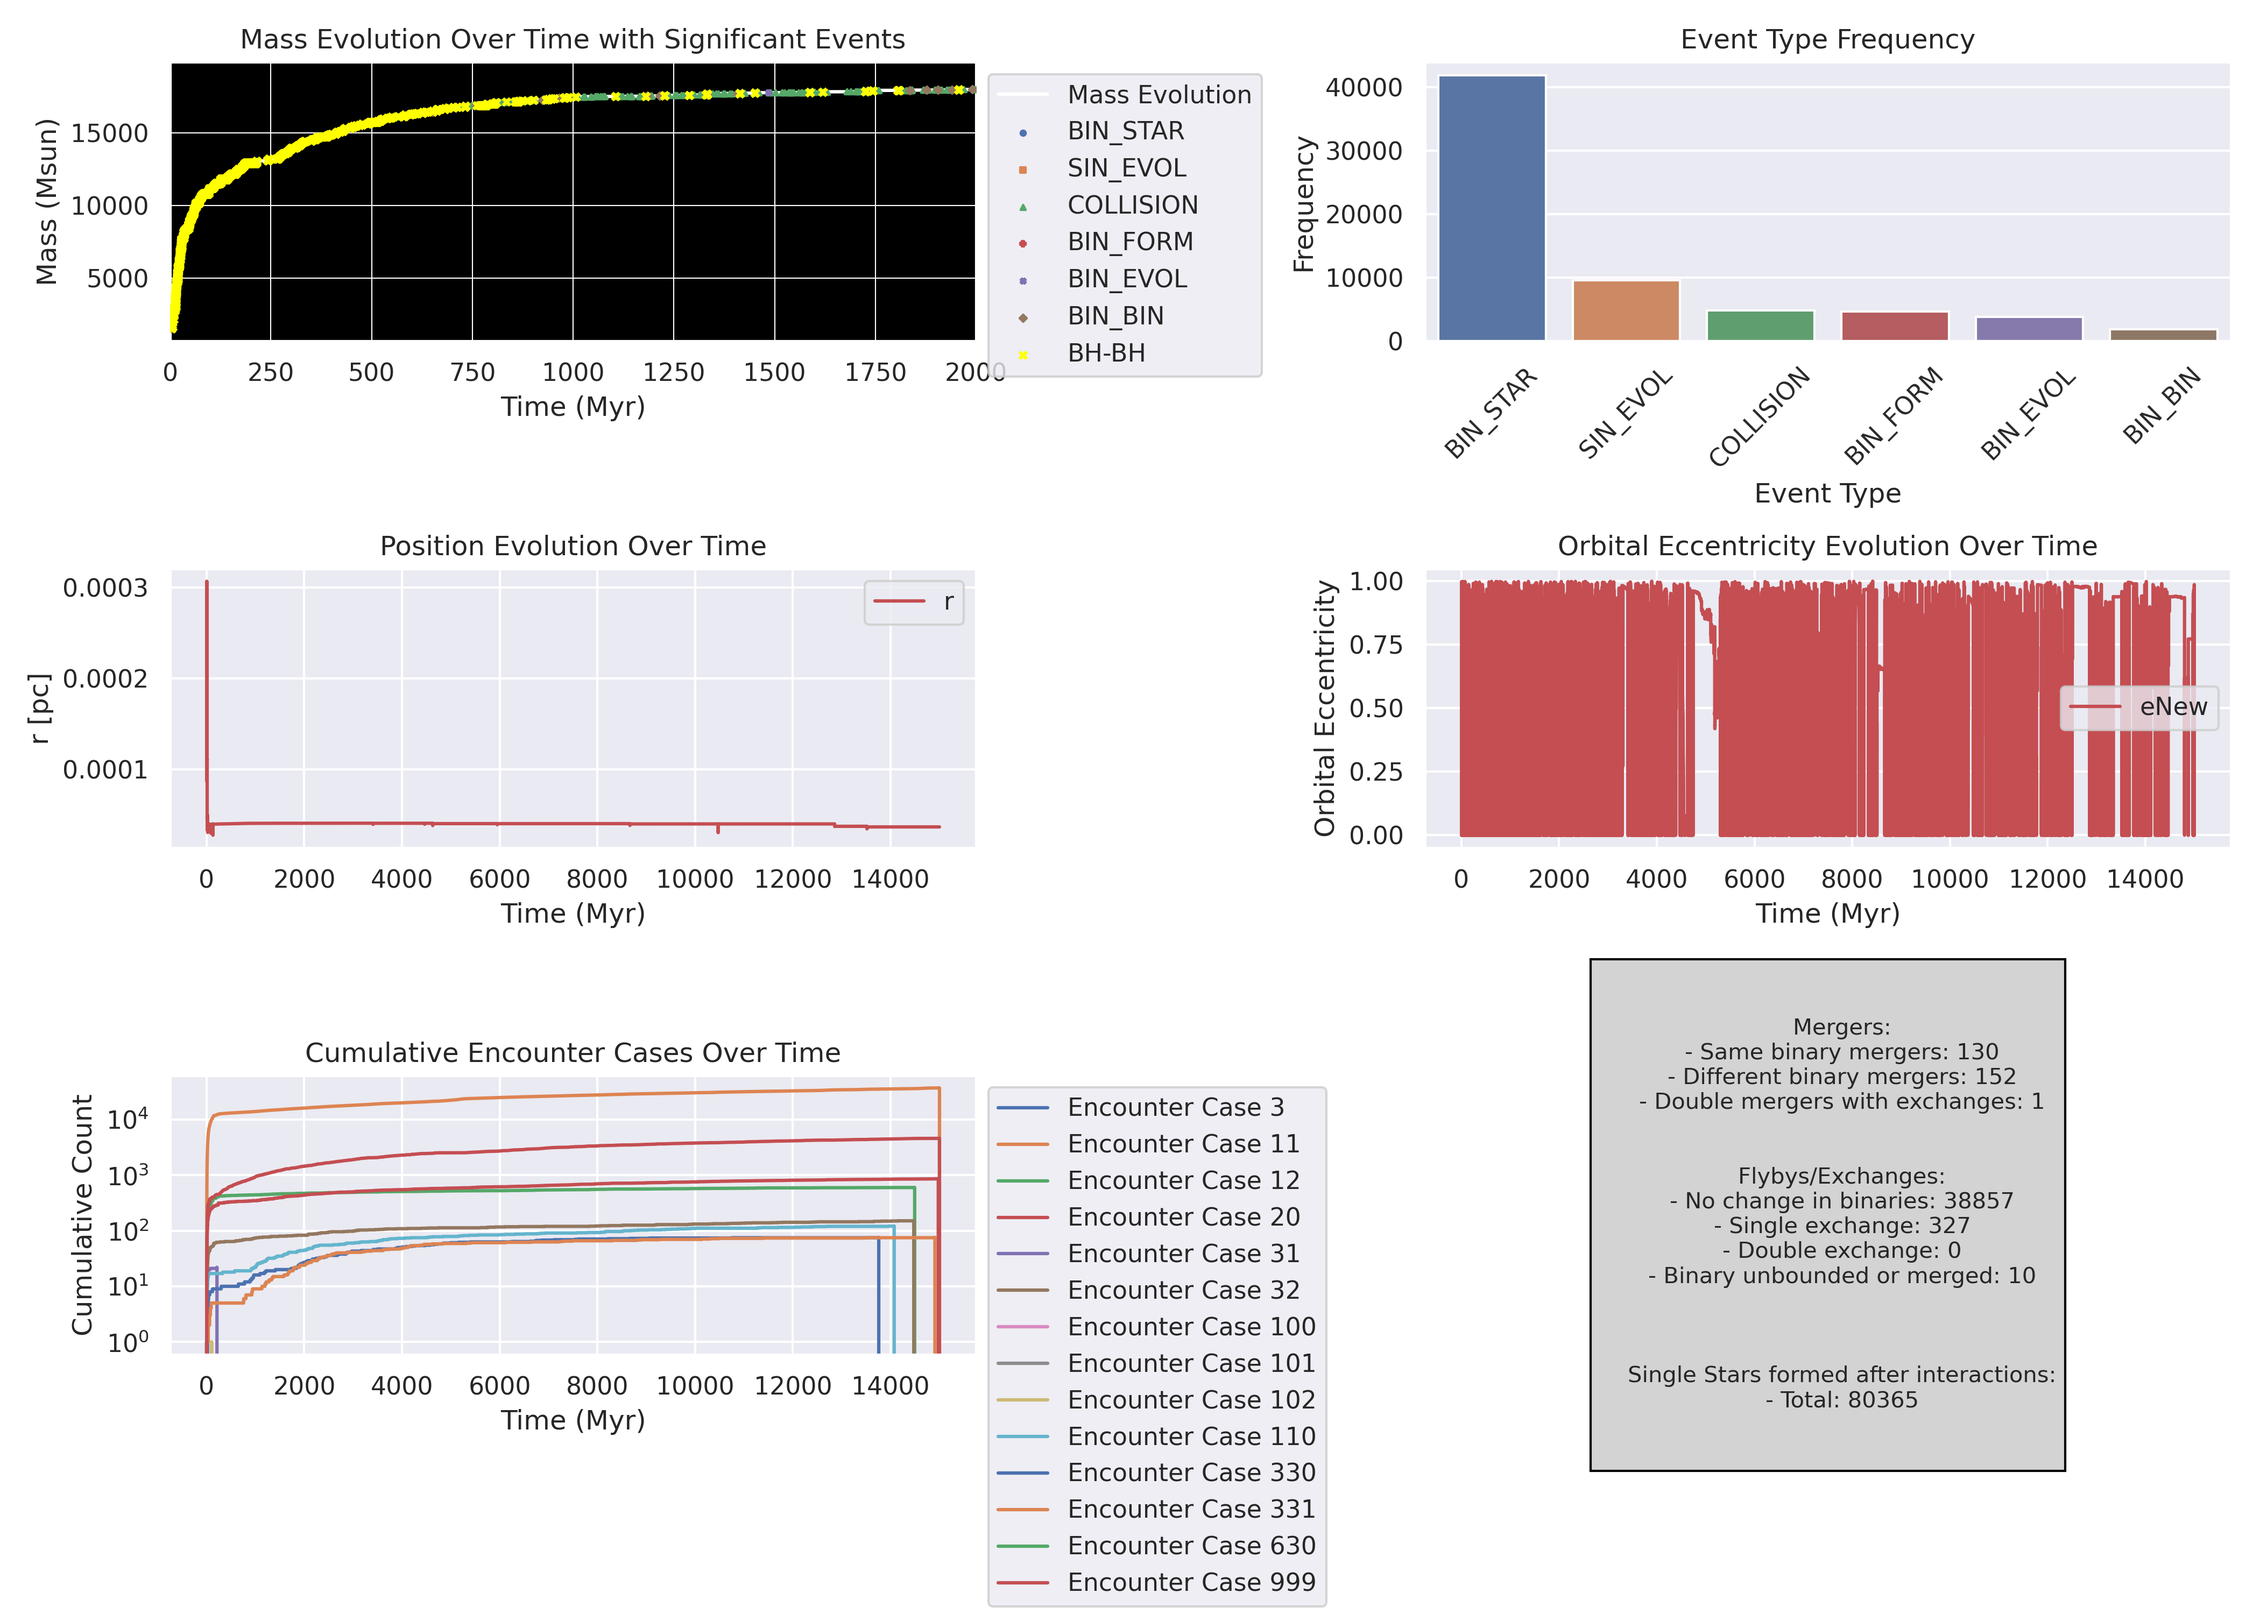
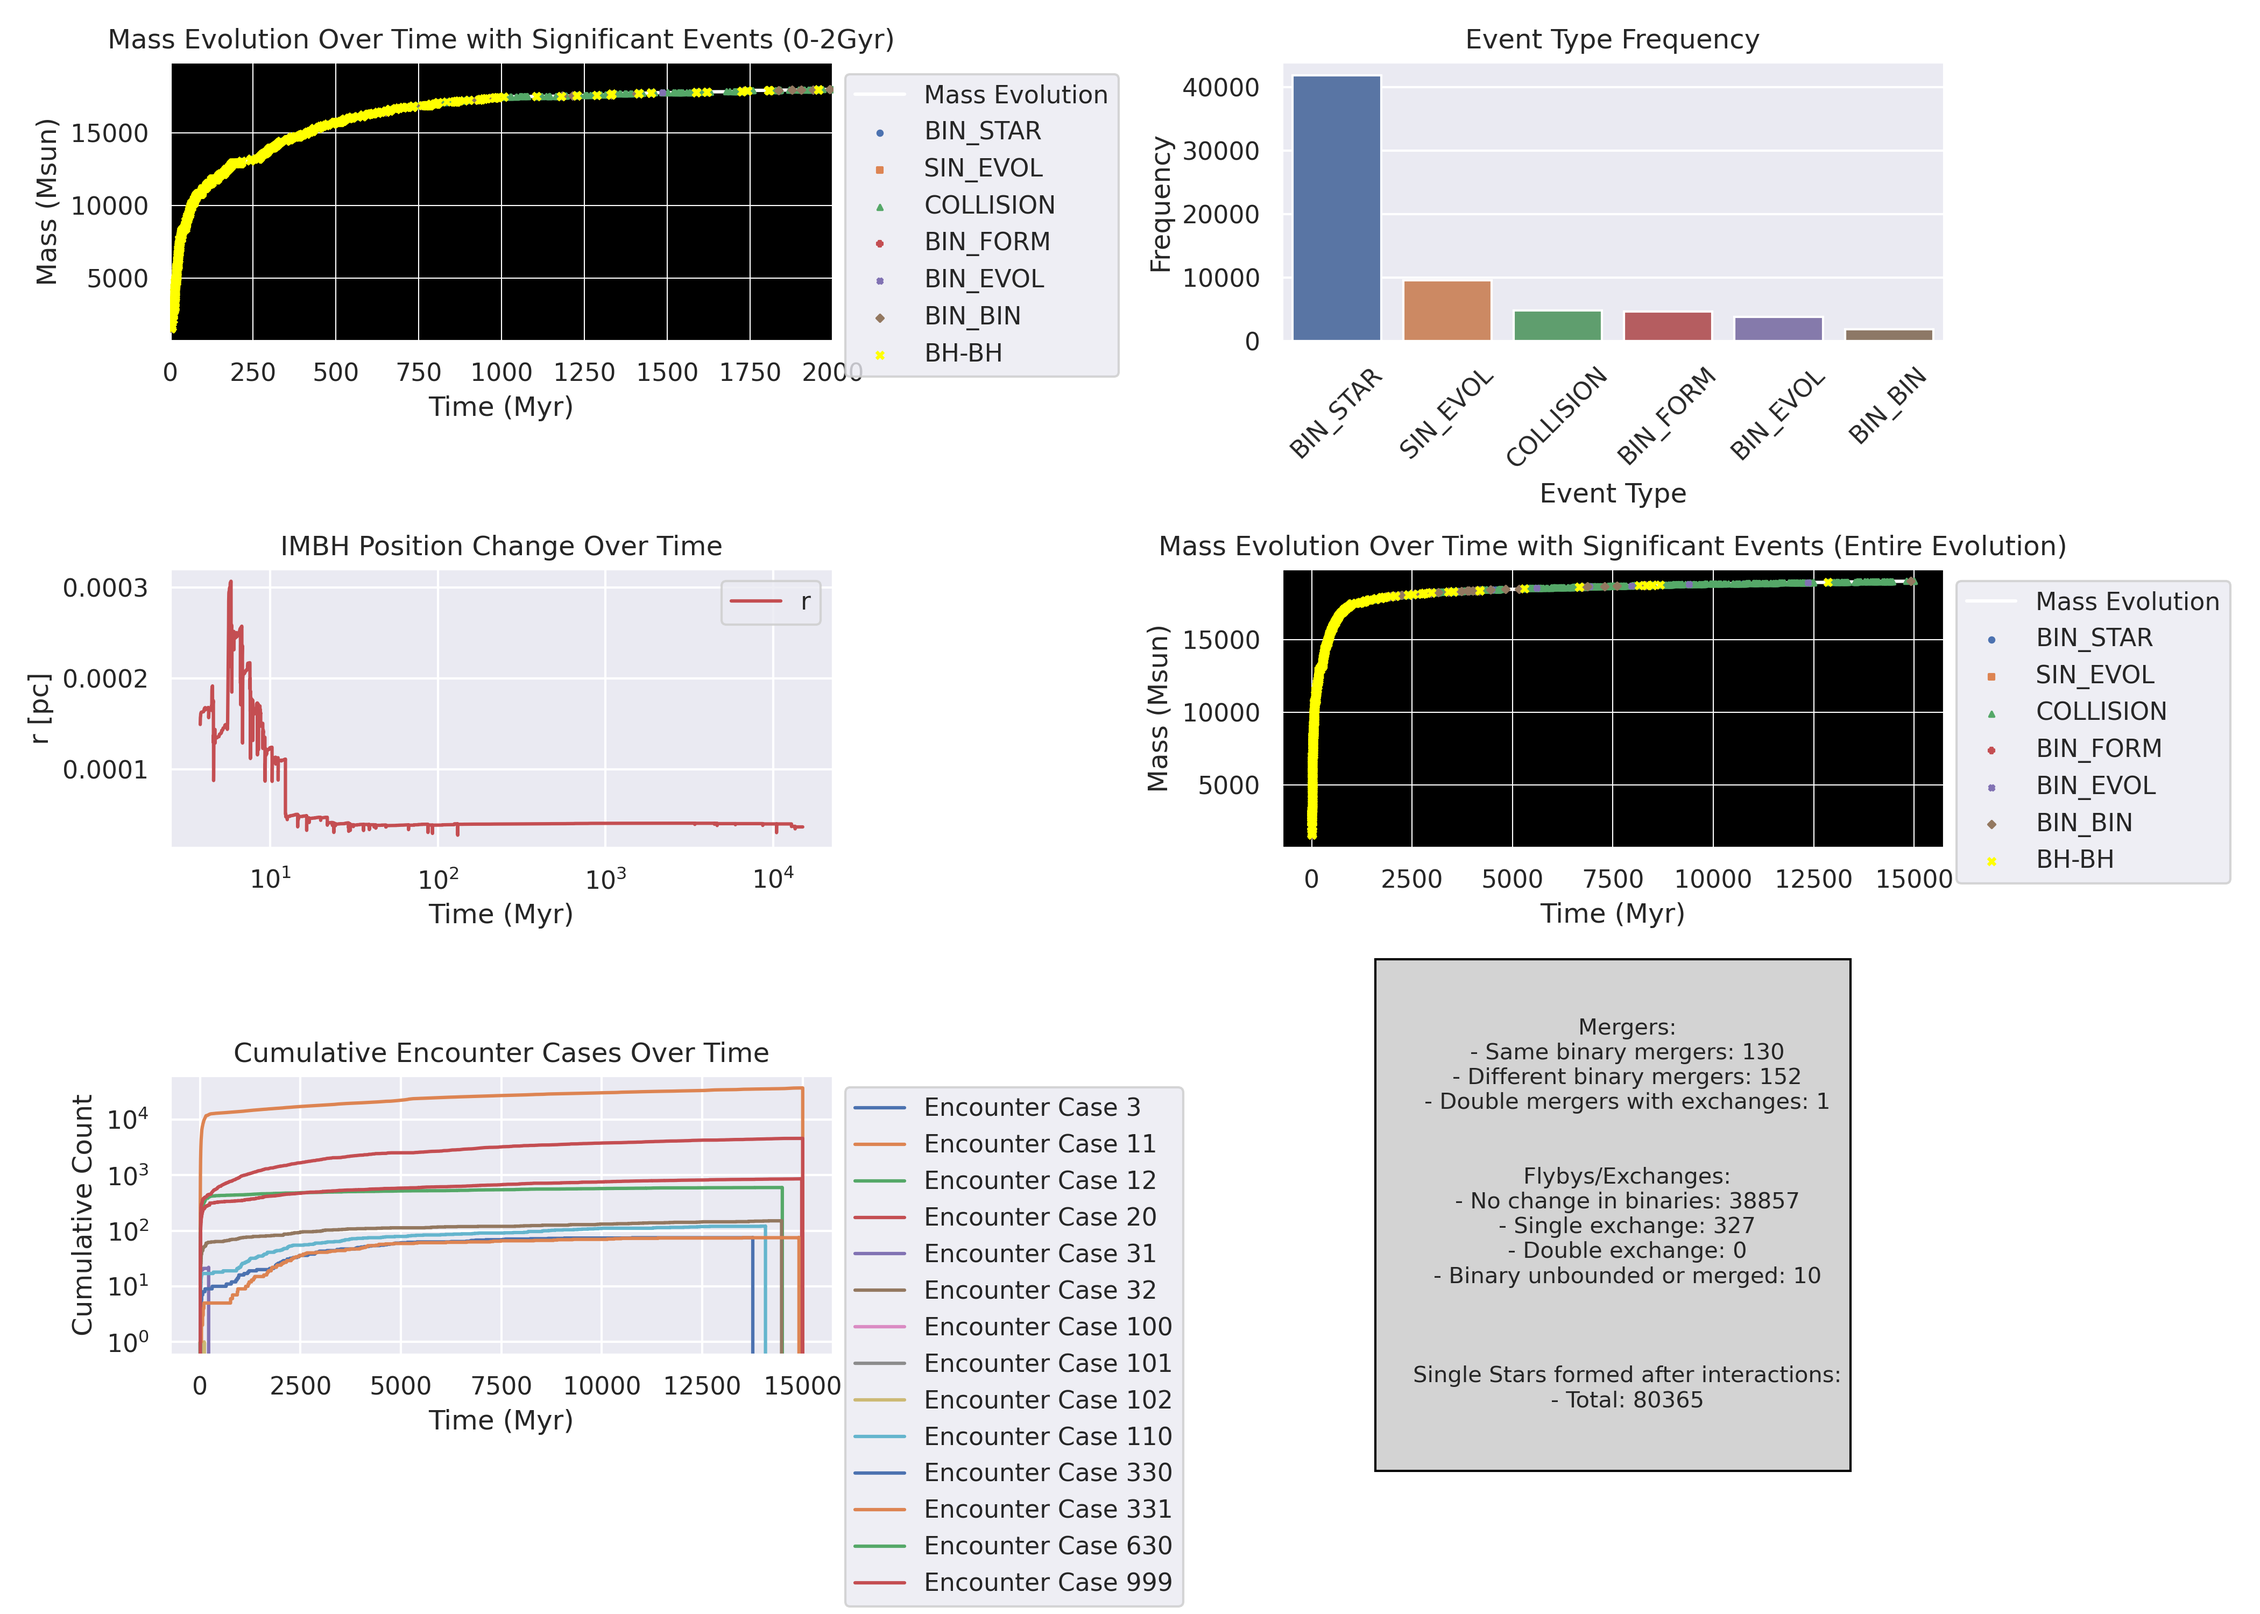
Added new subplots

diff --git a/functions/history.py b/functions/history.py
@@ -78,9 +78,13 @@ def history():
     
     
     axs[0, 0].set_facecolor('black')
-    
+    axs[0, 0].set_facecolor('black')
+    axs[1, 1].set_facecolor('black')
+    axs[1, 1].set_facecolor('black')
     
     axs[0, 0].grid(True, color='white', linestyle='-', linewidth=0.5) 
+    axs[1, 1].grid(True, color='white', linestyle='-', linewidth=0.5) 
+    
     
     
     legend = axs[0, 0].legend(frameon=True)
@@ -88,6 +92,12 @@ def history():
     legend.get_frame().set_edgecolor('white')  
     plt.setp(legend.get_texts(), color='white')  
     axs[0, 0].plot(df['time[Myr]'], df['massNew[Msun]'], label='Mass Evolution', color='w')
+    
+    legend = axs[1, 1].legend(frameon=True)
+    legend.get_frame().set_facecolor('gray')  
+    legend.get_frame().set_edgecolor('white')  
+    plt.setp(legend.get_texts(), color='white')  
+    axs[1, 1].plot(df['time[Myr]'], df['massNew[Msun]'], label='Mass Evolution', color='w')
     
     ordered_event_types = ['BIN_STAR', 'SIN_EVOL', 'COLLISION', 'BIN_FORM', 'BIN_EVOL', 'BIN_BIN']
     
@@ -113,22 +123,29 @@ def history():
         event_points = mass_increase_points[mass_increase_points['lineType(1)'] == event_type]
         axs[0, 0].scatter(event_points['time[Myr]'], event_points['massNew[Msun]'],
                           marker=marker_styles[event_type], label=f'{event_type}', s=5, zorder=5)
-    
+        axs[1, 1].scatter(event_points['time[Myr]'], event_points['massNew[Msun]'],
+                          marker=marker_styles[event_type], label=f'{event_type}', s=5, zorder=5)
     
     comp_type_14_points = df[(df['starType'] == 14) & (df['compType'] == 14)]
     
     
     axs[0, 0].scatter(comp_type_14_points['time[Myr]'], comp_type_14_points['massNew[Msun]'],
-                      marker='x', color='yellow', s=10, label='BH-BH', zorder=10)  # s=50 for larger cross marks
-    
-    axs[0, 0].set_title("Mass Evolution Over Time with Significant Events")
+                      marker='x', color='yellow', s=10, label='BH-BH', zorder=10)
+    axs[1, 1].scatter(comp_type_14_points['time[Myr]'], comp_type_14_points['massNew[Msun]'],
+                      marker='x', color='yellow', s=10, label='BH-BH', zorder=10)  
+    axs[0, 0].set_title("Mass Evolution Over Time with Significant Events (0-2Gyr)")
     axs[0, 0].set_xlabel("Time (Myr)")
     axs[0, 0].set_ylabel("Mass (Msun)")
     axs[0, 0].set_xlim([0, 2000])
     axs[0, 0].legend(loc='upper left', bbox_to_anchor=(1, 1))
     
+    axs[1, 1].set_title("Mass Evolution Over Time with Significant Events (Entire Evolution)")
+    axs[1, 1].set_xlabel("Time (Myr)")
+    axs[1, 1].set_ylabel("Mass (Msun)")
+    axs[1, 1].legend(loc='upper left', bbox_to_anchor=(1, 1))
+    
     def on_click(event):
-        if event.inaxes == axs[0, 0]:  
+        if event.inaxes == axs[0, 0] or event.inaxes == axs[1, 1] :  
             # Getting the index of the closest point
             closest_index = ((mass_increase_points['time[Myr]'] - event.xdata)**2 + 
                              (mass_increase_points['massNew[Msun]'] - event.ydata)**2).idxmin()
@@ -177,17 +194,18 @@ def history():
     
     
     axs[1, 0].plot(df['time[Myr]'], df['r[pc]'], label='r', color='r')
-    axs[1, 0].set_title("Position Evolution Over Time")
+    axs[1, 0].set_title("IMBH Position Change Over Time")
     axs[1, 0].set_xlabel("Time (Myr)")
+    axs[1, 0].set_xscale('log')
     axs[1, 0].set_ylabel("r [pc]")
     axs[1, 0].legend()
     
     
-    axs[1, 1].plot(df['time[Myr]'], df['eNew'], label='eNew', color='r')
-    axs[1, 1].set_title("Orbital Eccentricity Evolution Over Time")
-    axs[1, 1].set_xlabel("Time (Myr)")
-    axs[1, 1].set_ylabel("Orbital Eccentricity")
-    axs[1, 1].legend()
+    # axs[1, 1].plot(df['time[Myr]'], df['eNew'], label='eNew', color='r')
+    # axs[1, 1].set_title("Orbital Eccentricity Evolution Over Time")
+    # axs[1, 1].set_xlabel("Time (Myr)")
+    # axs[1, 1].set_ylabel("Orbital Eccentricity")
+    # axs[1, 1].legend()
     
     
     filtered_df = df[df['encCase'] != 0]
@@ -317,10 +335,11 @@ def history():
     
     event_counts_2 = filtered_df1['lineType(1)'].value_counts()
     sns.barplot(x=event_counts_2.index, y=event_counts_2.values, ax=axs[0, 0])
-    axs[0, 0].set_title("Mergers")
+    axs[0, 0].set_title("Mergers Events")
     axs[0, 0].set_xlabel("Event Type")
     axs[0, 0].set_ylabel("Frequency")
-    axs[0, 0].tick_params(axis='x', rotation=45)
+    axs[0, 0].set_yscale('log')
+    axs[0, 0].tick_params(axis='x')
     
     filtered_df2 = df[df['mergMass1(26)'] > 0.001].copy()
     save_data(filtered_df2,'mergers.dat')
@@ -356,19 +375,54 @@ def history():
     
     print("History files for GW candidates have been generated")
     
-    
-    random_idComp = random.choice(filtered_df_gw['idComp'].unique())
-    
-    
-    cand = df[df['idComp'] == random_idComp]
-    
-    
-    axs[1, 0].plot(cand['aOld[Rsun]'], cand['eOld(16)'])
+        
+    filtered_df4 = filtered_df2.copy()
+    all_events = sorted(filtered_df2['lineType(1)'].unique())
+    grouped = filtered_df2.groupby(['time[Myr]', 'lineType(1)']).size().unstack(fill_value=0).reindex(columns=all_events, fill_value=0)
     
     
-    axs[1, 0].set_title(f"Evolution of semi-major axis for candidate {random_idComp}")
-    axs[1, 0].set_xlabel("Semi Major Axis (aOld)")
-    axs[1, 0].set_ylabel("Orbital Eccentricity (eOld)")
+    cumulative_counts_df = grouped.cumsum()
+    cumulative_counts_df = cumulative_counts_df.sort_index()
+    
+    
+    x_values = cumulative_counts_df.index  
+    for event in all_events:
+        y_values = cumulative_counts_df[event]
+        if y_values.sum() > 0: 
+            if (grouped[event] > 0).any():
+                last_encounter_time = grouped[event][grouped[event] > 0].index[-1]
+            else:
+                last_encounter_time = x_values[0]
+            
+            
+            extended_x = np.append(x_values[x_values <= last_encounter_time], last_encounter_time + (x_values[1] - x_values[0]))
+            extended_y = np.append(y_values[x_values <= last_encounter_time], 0)
+            
+            axs[1, 0].plot(extended_x, extended_y, label=f'{event}')
+
+
+    
+    axs[1, 0].set_title("Merger event counts with IMBH over Time")
+    axs[1, 0].set_xlabel("Time (Myr)")
+    axs[1, 0].set_ylabel("Cumulative Count")
+    axs[1, 0].legend(loc='upper left', bbox_to_anchor=(1, 1))
+    axs[1, 0].grid(True)
+    axs[1, 0].set_yscale('log')
+    plt.tight_layout()
+    
+
+    # random_idComp = random.choice(filtered_df_gw['idComp'].unique())
+    
+    
+    # cand = df[df['idComp'] == random_idComp]
+    
+    
+    # axs[1, 0].plot(cand['aOld[Rsun]'], cand['eOld(16)'])
+    
+    
+    # axs[1, 0].set_title(f"Evolution of semi-major axis for candidate {random_idComp}")
+    # axs[1, 0].set_xlabel("Semi Major Axis (aOld)")
+    # axs[1, 0].set_ylabel("Orbital Eccentricity (eOld)")
     
     
     unique_line_types = filtered_df2['lineType(1)'].unique()
@@ -460,8 +514,9 @@ def history():
     
     event_counts_3 = filtered_df3['lineType(1)'].value_counts()
     sns.barplot(x=event_counts_3.index, y=event_counts_3.values, ax=axs[2, 1])
-    axs[2, 1].set_title("BH-BH Mergers")
+    axs[2, 1].set_title("IMBH-Compact Object Mergers")
     axs[2, 1].set_xlabel("Event Type")
+    axs[2, 1].set_yscale('log')
     axs[2, 1].set_ylabel("Frequency")
     
     
